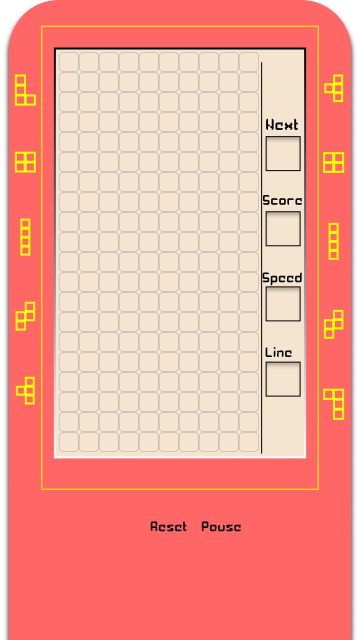
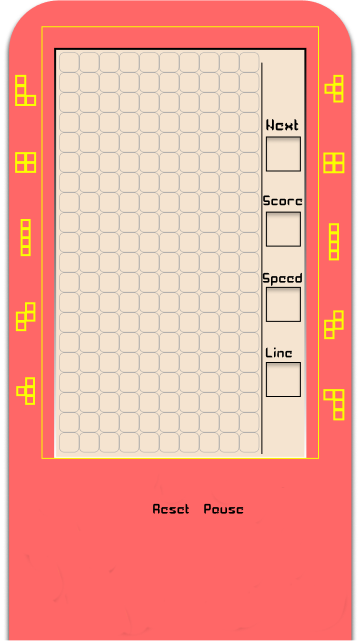
tetris bg update

diff --git a/vk.html b/vk.html
@@ -536,7 +536,7 @@ function addScore(d){
             <img id="bg" src="img/bg.png">
         </div>
         <img class="topleft" src="img/not_supported.png">
-        <!-- <img class="topleft" src="img/full.png"> -->
+        <img class="topleft" src="img/full.png">
         <canvas class="topleft" width="360" height="640" id="canvas-bg"></canvas>
         <canvas class="topleft" width="360" height="640" id="canvas"></canvas>
         <img class="topleft click-through" style="display: none;" id="paused-overlay" src="img/paused.png">
@@ -550,16 +550,16 @@ function addScore(d){
 var UI_ELEMENTS = [
     // {action: 'share' , x: 0, y: 0, w: 66, h: 66},
 
-    {action: 'left'  , x: 219 - 15, y: 567, w: 66, h: 66},
-    {action: 'right' , x: 287, y: 567, w: 66, h: 66},
+    {action: 'left'  , x: 203, y: 567, w: 66, h: 66},
+    {action: 'right' , x: 283, y: 567, w: 66, h: 66},
 
-    {action: 'rotate', x: 34 + 212, y: 503, w: 66, h: 66},
-    {action: 'down'  , x: 16, y: 503/* + 65*/, w: 66, h: 66},
+    {action: 'rotate', x: 26 + 212, y: 497, w: 66, h: 66},
+    {action: 'down'  , x: 20, y: 509, w: 66, h: 66},
 
-    {action: 'drop'  , x: 120 - 40, y: 538, w: 97, h: 97},
+    {action: 'drop'  , x: 78, y: 539, w: 97, h: 97},
     
-    {action: 'reset' , x: 157 - 1, y: 493 + 1, w: 25 * 1.1, h: 26 * 1.1},
-    {action: 'pause' , x: 210 - 2, y: 493 + 1, w: 25 * 1.1, h: 26 * 1.1}
+    {action: 'reset' , x: 158, y: 477, w: 25 * 1.1, h: 26 * 1.1},
+    {action: 'pause' , x: 210, y: 477, w: 25 * 1.1, h: 26 * 1.1}
 ];
 
 
